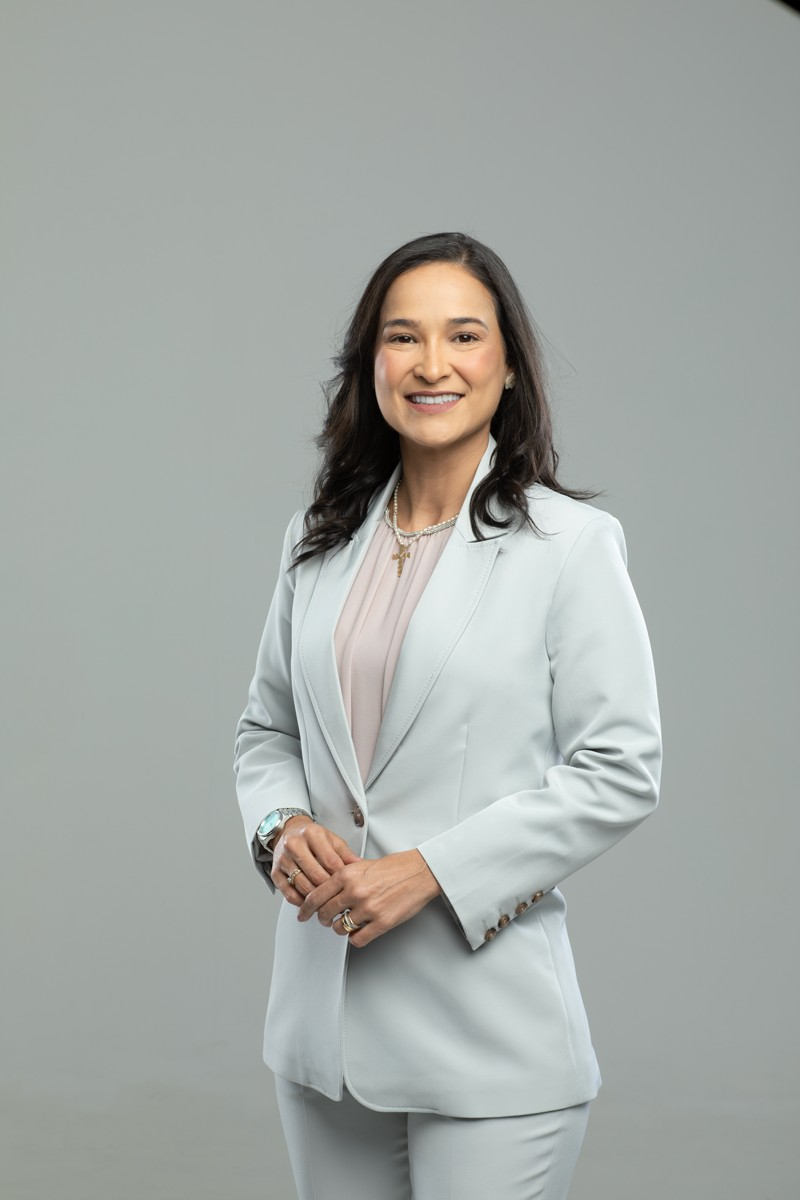
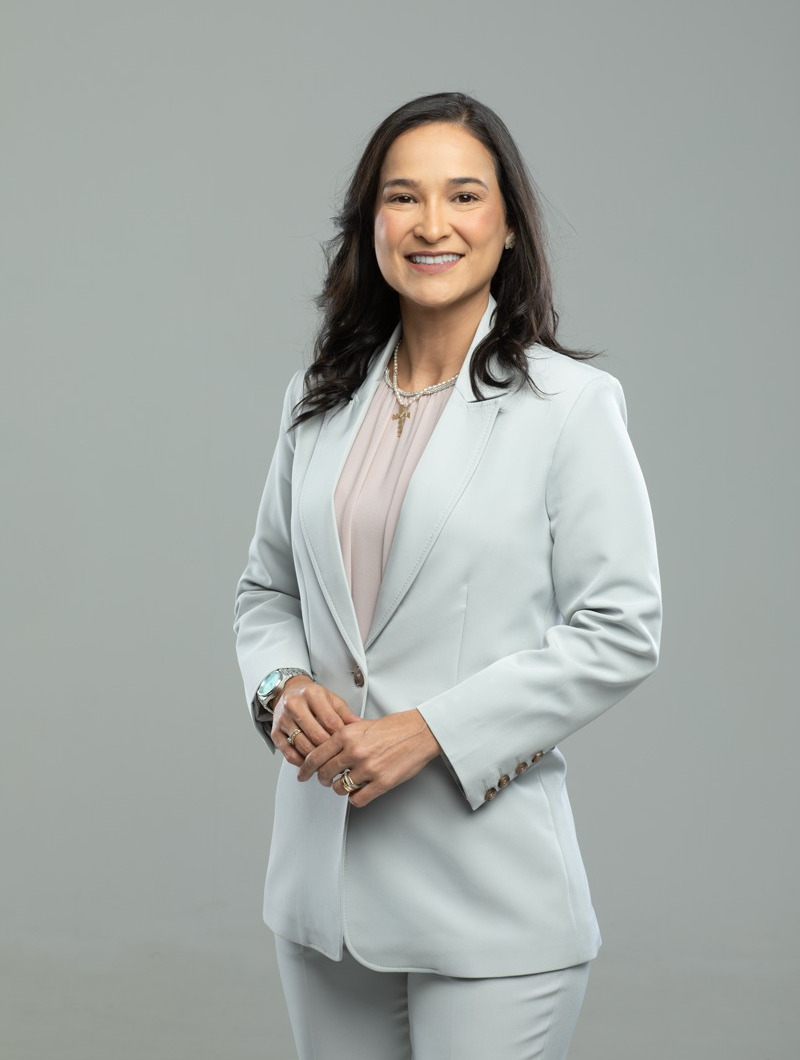
Retrato oficial: corte de 140px no topo (aprovado pela assessoria)

Changed region(s): [[0.2812, 0.0623, 0.8438, 0.9962], [0.3125, 0.7783, 0.3438, 0.8406], [0.9688, 0.0, 1.0, 0.0311]]

diff --git a/index.html b/index.html
@@ -318,7 +318,7 @@
       <p class="lang-en">A former <strong>judge of the Brazilian Maritime Court</strong> (2021-2024), appointed by presidential decree, she is an <strong>arbitrator at the Brazilian Maritime Arbitration Center</strong> and chairs the National Maritime and Port Law Commission of the Brazilian Bar Federal Council. At the helm of <strong>Ingrid Zanella Advocacia Estratégica</strong>, she works on shipping, port and environmental matters, and writes regularly for Brazil's specialized legal press, in outlets such as <strong>Estadão, JOTA, Conjur and Migalhas</strong>.</p>
       </div>
       <figure>
-        <img src="assets/presidente-hd.jpg" alt="Retrato oficial de Ingrid Zanella" loading="lazy" width="800" height="1200">
+        <img src="assets/presidente-hd.jpg" alt="Retrato oficial de Ingrid Zanella" loading="lazy" width="800" height="1060">
         <figcaption><span class="lang-pt">Retrato oficial.</span><span class="lang-en">Official portrait.</span></figcaption>
       </figure>
     </div>
